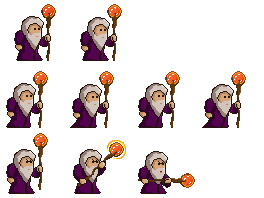
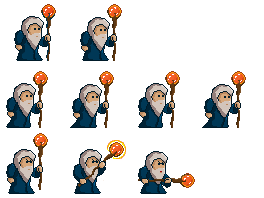
Commit Modif Selection + skins

diff --git a/scripts/js/classes/classes.js b/scripts/js/classes/classes.js
@@ -3,11 +3,12 @@
 //====================================================================
 var Heros = function(x,y,player){
 	manageTiles('players',x,y,true);
+	manageTiles('collisions',x,y,true);
 	this.player = player;
 	this.pos = {x : x, y : y};
 	this.image = images[this.name+''+this.player];
 	this.status = '';
-	this.moveSpeed = 0.07;
+	this.moveSpeed = 0.03;
 	this.hasMoved = false;
 	this.hasAttacked = false;
 	this.canBeSelected = false;
@@ -53,8 +54,12 @@ Heros.prototype.move = function (){
 	if(!this.hasMoved && !this.isMoving){
 		if(path.length<this.movePoint+2){
 			if(checkTiles('players',path[path.length-1][0],path[path.length-1][1]) == 0){
+				
 				manageTiles('players',this.pos.x,this.pos.y,false);
+				manageTiles('collisions',this.pos.x,this.pos.y,false);
 				this.path = path;
+				manageTiles('collisions',this.path[this.path.length-1][0],this.path[this.path.length-1][1],true);
+				manageTiles('players',this.path[this.path.length-1][0],this.path[this.path.length-1][1],true);
 				// this.pos.x = path[path.length-1][0];
 				// this.pos.y = path[path.length-1][1];
 				// this.CheckCase();
@@ -85,7 +90,6 @@ Heros.prototype.move = function (){
 			else{
 				this.pos.x = this.path[0][0];
 				this.pos.y = this.path[0][1];
-				manageTiles('players',this.pos.x,this.pos.y,true);
 				this.path;
 				this.changeAnim('normal');
 				this.isMoving = false;
@@ -97,7 +101,6 @@ Heros.prototype.changeAnim = function (name){
 	this.config.animation = name;
 	this.config.animFrame = 0;
 	this.config.currentFrame = 0;
-	//checklacase si y a bonus/malus.
 };
 
 Heros.prototype.CheckCase = function (){
@@ -120,6 +123,7 @@ Heros.prototype.deselected = function (){
 
 Heros.prototype.newTurn = function (){
 	this.hasMoved = false;
+	this.isSelected = false;
 	this.hasAttacked = false;
 	this.canBeSelected = true;
 };
@@ -127,7 +131,7 @@ Heros.prototype.newTurn = function (){
 Heros.prototype.EndTurn = function (){
 	this.hasMoved = true;
 	this.hasAttacked = true;
-	this.isSelected= false;
+	this.isSelected = false;
 	this.canBeSelected = false;
 };
 

diff --git a/scripts/js/classes/player.js b/scripts/js/classes/player.js
@@ -1,15 +1,16 @@
-var Player = function(canvas,name){
+var Player = function(canvas,name,spawn){
 	this.name = name;
 	this.images = images;
+	this.spawn = spawn;
 	document.getElementById(this.name).visible = true;
 	this.timerBox = document.getElementById('countdown');
 	this.army = [];
-	this.army.push(new Thief(8,4,this.name,this))
-	this.army.push(new Dragon(5,3,this.name,this))
+	this.spawnHeros();
 	this.status = '';
 	this.isSelecting = false;
+	this.targetSelected = false;
 	this.turn = false;
-	this.turnTimer = 30; //secondes
+	this.turnTimer = 60; //secondes
 	this.actualTimer = 0;
 	this.lastUpdate;
 	this.otherPlayer;
@@ -19,6 +20,13 @@ var Player = function(canvas,name){
 Player.prototype.addOtherPlayer = function(otherPlayer){
 	this.otherPlayer = otherPlayer;
 }
+
+Player.prototype.spawnHeros = function(){
+	for (var i = 0; i < this.spawn.length; i++) {
+		this.army.push(new Thief(this.spawn[i][0],this.spawn[i][1],this.name,this))
+	};
+}
+
 //loop Player
 Player.prototype.loop = function(context){
 	if(this.turn){
@@ -48,12 +56,18 @@ Player.prototype.onclick = function(x,y){
 	for (var i = 0; i < this.army.length; i++) {
 		if(this.army[i].pos.x == caseSelected.x && this.army[i].pos.y == caseSelected.y){
 			if(!this.isSelecting){
-				if(!this.army[i].isSelected){
+				if(!this.army[i].isSelected && this.army[i].canBeSelected){
 					this.army[i].selected();
+					this.targetSelected = this.army[i];
 				}
 				else{
 					this.army[i].deselected();
+					this.targetSelected = false;
 				}
+			}
+			else{
+				this.targetSelected.deselected();
+				this.targetSelected = false;
 			}
 		} 
 		else if(this.army[i].isSelected) {

diff --git a/scripts/js/init.js b/scripts/js/init.js
@@ -87,8 +87,10 @@ function startGame(){
     context.clearRect(0,0,canvas.width,canvas.height);
     map = initMap(map1);
     gameObjects[2].push(new Map(map));
-    gameObjects[1].push(new Player(canvas,'Player2'));
-    gameObjects[0].push(new Player(canvas,'Player1'));
+    var P1spawn = [[0,0],[0,2],[1,1],[2,1],[2,0],[3,0]]
+    var P2spawn = [[19,14],[19,12],[18,13],[17,13],[17,14],[16,14]]
+    gameObjects[1].push(new Player(canvas,'Player2',P1spawn));
+    gameObjects[0].push(new Player(canvas,'Player1',P2spawn));
     gameObjects[0][0].addOtherPlayer(gameObjects[1][0])
     gameObjects[1][0].addOtherPlayer(gameObjects[0][0])
 
@@ -116,5 +118,5 @@ function startGame(){
         40: [gameObjects[2][0].scroll, "bot"]   //Scroll bas
     });
 
-    state = 'SET_TILES';
+    state = 'IN_GAME';
 }

diff --git a/scripts/js/main.js b/scripts/js/main.js
@@ -101,7 +101,7 @@ function loading(nb,target){
 *
 ********************************/
 function manageTiles(layer,x,y,insert)
-{
+{   
     if(insert)
         map[layer][y][x] = 1;
     else
